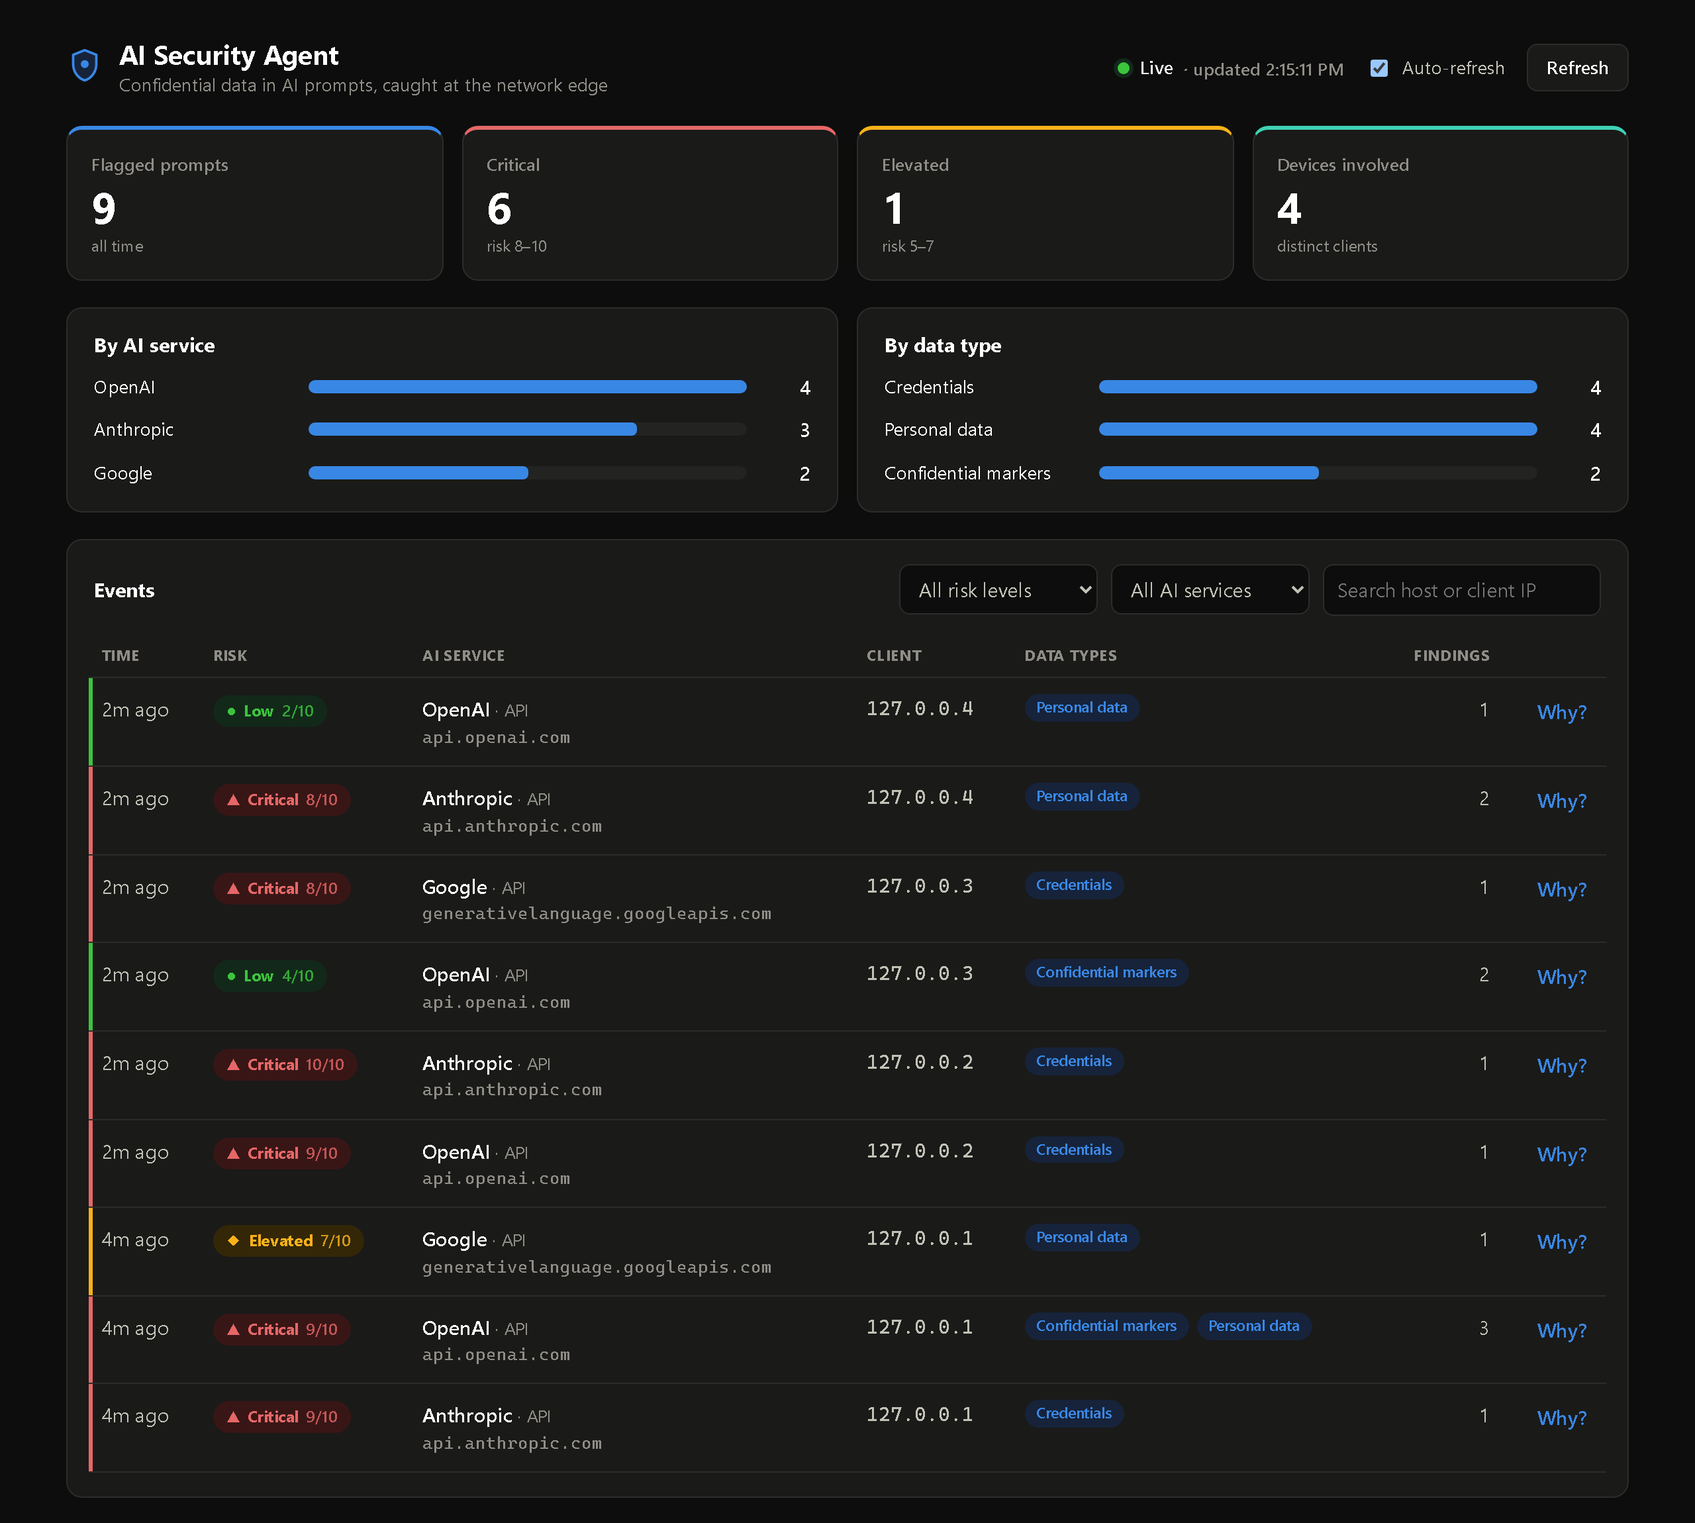
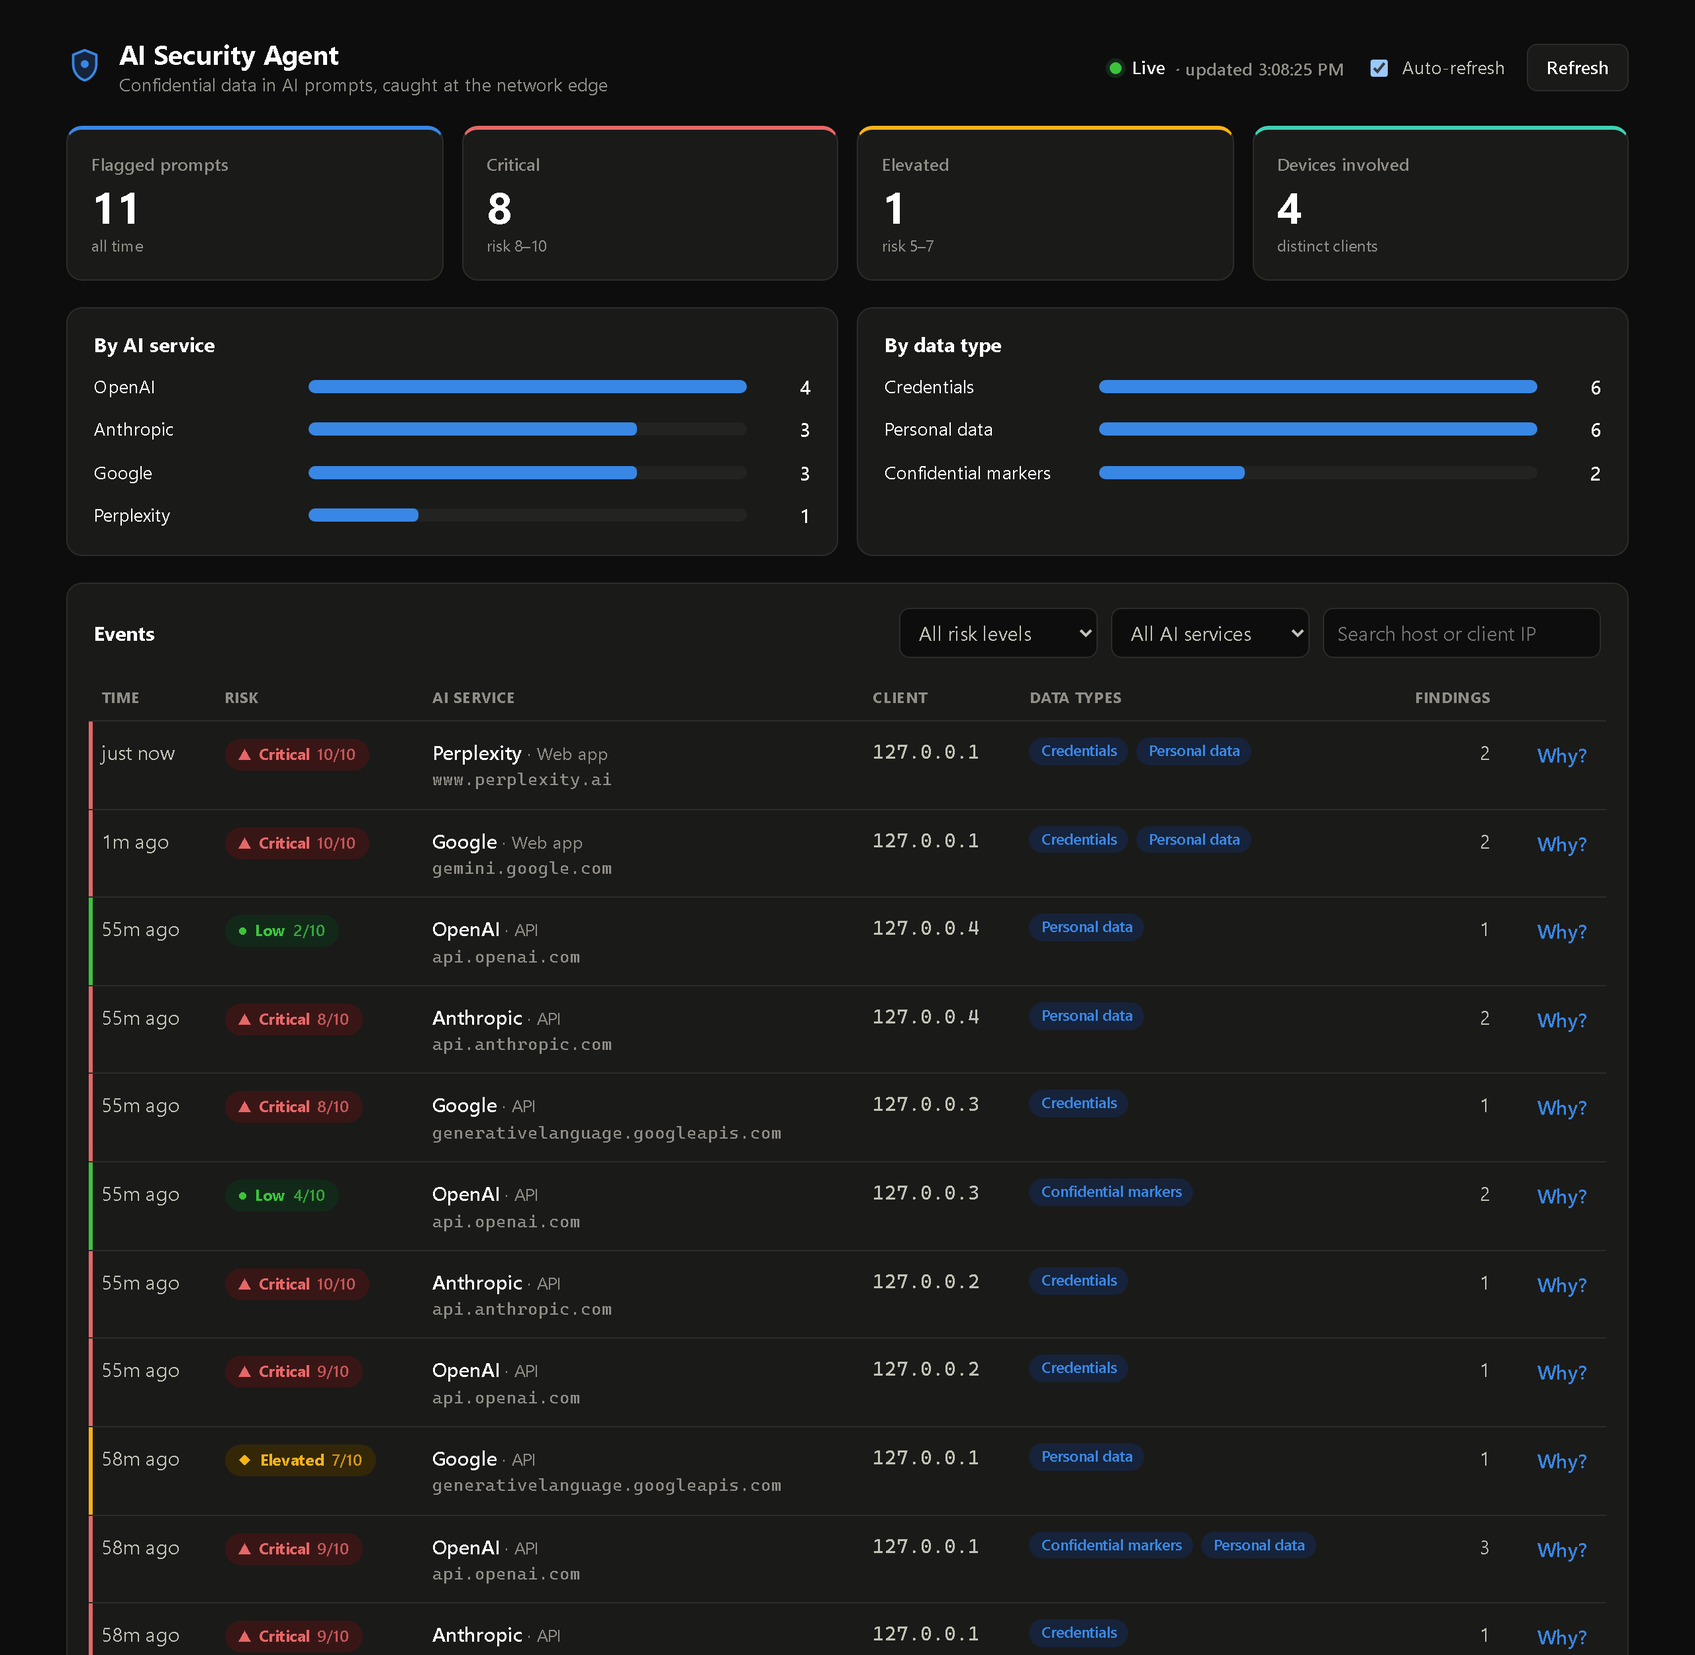
AI Security Agent: browser web-UI findings, coverage table, refreshed dashboard shots
- New Coverage section (build.py + styles): states plainly which services are
  verified on live traffic, which parsers are unverified, and which are unsupported.
- Case study updated with the browser-test story (zero events at first, then
  endpoint-aware parsers for Gemini and Perplexity), 56 tests, new next steps.
- Dashboard screenshots retaken with browser (Web app) events included.

diff --git a/projects/ai-security-agent/index.html b/projects/ai-security-agent/index.html
@@ -38,7 +38,7 @@
       </section>
       <section>
         <h2>Screenshots</h2>
-        <div class="gallery"><figure class="shot wide"><img src="../../assets/projects/ai-security-agent/dashboard-light.png" alt="AI Security Agent admin dashboard in light mode: summary tiles, breakdown by AI service and data type, and a table of flagged prompts with risk badges." width="2560" height="2300" loading="lazy"><figcaption>The admin dashboard, fed by a real proxy run: nine flagged prompts from four client addresses, with the first event&#x27;s rationale expanded.</figcaption></figure><figure class="shot wide"><img src="../../assets/projects/ai-security-agent/dashboard-dark.png" alt="The same dashboard in dark mode." width="2560" height="2300" loading="lazy"><figcaption>Dark mode. Severity is shown by icon and label as well as color.</figcaption></figure><figure class="shot wide"><img src="../../assets/projects/ai-security-agent/dlp-engine-output.png" alt="Terminal output showing a prompt containing a fake AWS key and SSN, scored 10 out of 10, with each finding listed using a masked value." width="1960" height="762" loading="lazy"><figcaption>Real engine output for a fake prompt (an AWS documentation example key and a sample SSN). Every stored value is masked.</figcaption></figure><figure class="shot wide"><img src="../../assets/projects/ai-security-agent/architecture.svg" alt="Diagram: client devices send traffic to a TLS-inspecting proxy that matches AI domains, extracts prompts and runs DLP classification; redacted events go to a backend API and the admin dashboard." width="900" height="300" loading="lazy"><figcaption>Data flow from client to proxy to backend to dashboard.</figcaption></figure></div>
+        <div class="gallery"><figure class="shot wide"><img src="../../assets/projects/ai-security-agent/dashboard-light.png" alt="AI Security Agent admin dashboard in light mode: summary tiles, breakdown by AI service and data type, and a table of flagged prompts with risk badges." width="2560" height="2500" loading="lazy"><figcaption>The admin dashboard, fed by real proxy runs: flagged prompts from API calls and from browser sessions (rows marked Web app), with the first event&#x27;s rationale expanded.</figcaption></figure><figure class="shot wide"><img src="../../assets/projects/ai-security-agent/dashboard-dark.png" alt="The same dashboard in dark mode." width="2560" height="2500" loading="lazy"><figcaption>Dark mode. Severity is shown by icon and label as well as color.</figcaption></figure><figure class="shot wide"><img src="../../assets/projects/ai-security-agent/dlp-engine-output.png" alt="Terminal output showing a prompt containing a fake AWS key and SSN, scored 10 out of 10, with each finding listed using a masked value." width="1960" height="762" loading="lazy"><figcaption>Real engine output for a fake prompt (an AWS documentation example key and a sample SSN). Every stored value is masked.</figcaption></figure><figure class="shot wide"><img src="../../assets/projects/ai-security-agent/architecture.svg" alt="Diagram: client devices send traffic to a TLS-inspecting proxy that matches AI domains, extracts prompts and runs DLP classification; redacted events go to a backend API and the admin dashboard." width="900" height="300" loading="lazy"><figcaption>Data flow from client to proxy to backend to dashboard.</figcaption></figure></div>
       </section>
       <section>
         <h2>The problem</h2>
@@ -46,15 +46,23 @@
       </section>
       <section>
         <h2>How it works</h2>
-        <p>A mitmproxy add-on matches traffic against a registry of known AI services, then uses per-provider extractors to pull out only the text the user typed — not system prompts or earlier turns. Events are delivered on a worker thread, so a slow backend can never stall a user&#x27;s request.</p><p>A DLP engine scores that text on a 1 to 10 scale. It detects AWS keys, GitHub and Slack tokens, private key blocks, JWTs, SSNs, Luhn-validated card numbers and confidential-marker keywords.</p><p>The detector is redaction-first: it never stores or returns the raw match, so the monitoring tool cannot become a new store of secrets. The admin dashboard shows only the risk summary, data types and counts. The consent model is disclosure through acceptable-use policy with a silent runtime, and it is documented in the repo.</p>
+        <p>A mitmproxy add-on matches each request by host and path against a registry of known AI services, then uses a per-provider extractor to pull out only the text the user typed — not system prompts, earlier turns or analytics beacons. Events are delivered on a worker thread, so a slow backend can never stall a user&#x27;s request.</p><p>A DLP engine scores that text on a 1 to 10 scale. It detects AWS keys, GitHub and Slack tokens, private key blocks, JWTs, SSNs, Luhn-validated card numbers and confidential-marker keywords.</p><p>The detector is redaction-first: it never stores or returns the raw match, so the monitoring tool cannot become a new store of secrets. The admin dashboard shows only the risk summary, data types and counts. The consent model is disclosure through acceptable-use policy with a silent runtime, and it is documented in the repo.</p>
+      </section>
+      <section>
+        <h2>Coverage</h2>
+        <p>What has been tested against real traffic, and what hasn't.</p>
+        <div class="table-scroll"><table class="coverage">
+          <thead><tr><th scope="col">Service</th><th scope="col">Where</th><th scope="col">Status</th><th scope="col">Notes</th></tr></thead>
+          <tbody><tr><th scope="row">OpenAI</th><td>API</td><td><span class="cov cov--verified">Verified on live traffic</span></td><td>Chat Completions requests.</td></tr><tr><th scope="row">Anthropic</th><td>API</td><td><span class="cov cov--verified">Verified on live traffic</span></td><td>Messages API requests.</td></tr><tr><th scope="row">Google Gemini</th><td>API</td><td><span class="cov cov--verified">Verified on live traffic</span></td><td>generateContent requests.</td></tr><tr><th scope="row">Gemini</th><td>Web app</td><td><span class="cov cov--verified">Verified on live traffic</span></td><td>Caught in a real browser session. The prompt sits inside JSON nested in JSON in a form field; decoded step by step.</td></tr><tr><th scope="row">Perplexity</th><td>Web app</td><td><span class="cov cov--verified">Verified on live traffic</span></td><td>Caught in a real browser session. Analytics beacons that echo the prompt are deliberately ignored.</td></tr><tr><th scope="row">ChatGPT</th><td>Web app</td><td><span class="cov cov--unverified">Written, not yet verified</span></td><td>Cloudflare blocks automated capture. The parser follows the commonly reported format and fails safe.</td></tr><tr><th scope="row">Claude</th><td>Web app</td><td><span class="cov cov--unverified">Written, not yet verified</span></td><td>Needs a signed-in session to capture. Parser follows the commonly reported format.</td></tr><tr><th scope="row">Microsoft Copilot</th><td>Web app</td><td><span class="cov cov--unsupported">Not supported yet</span></td><td>Chats over a WebSocket, which needs a message-level hook.</td></tr><tr><th scope="row">Mistral, Grok</th><td>Web app</td><td><span class="cov cov--unverified">Written, not yet verified</span></td><td>Generic fallback parser only.</td></tr></tbody>
+        </table></div>
       </section>
       <section>
         <h2>Highlights</h2>
-        <ul class="bullets"><li>Validated end to end on live traffic: real requests to the OpenAI, Anthropic and Gemini APIs through a local test proxy produced redacted events and nothing else — the test CA was never installed system-wide.</li><li>Redaction by design: findings carry the rule, category and weight — never the secret itself.</li><li>Admin dashboard with summary tiles, breakdowns by AI service and data type, filters, per-event rationale and live refresh, in light and dark mode.</li><li>38 automated tests across the DLP engine, extractors, proxy add-on and the FastAPI backend.</li></ul>
+        <ul class="bullets"><li>Validated on live traffic, not just unit tests: real requests to the OpenAI, Anthropic and Gemini APIs, plus real browser sessions on Gemini and Perplexity, through a local test proxy. The test CA was never installed system-wide.</li><li>Found and fixed a real gap: the first browser test recorded zero events, because chat UIs use their own request formats — Gemini nests JSON inside JSON inside a form field. Endpoint-aware parsers now catch them.</li><li>Perplexity echoes each prompt into analytics beacons. The registry matches on path, so the beacons are ignored and a prompt is reported exactly once.</li><li>Redaction by design: findings carry the rule, category and weight — never the secret itself.</li><li>Admin dashboard with summary tiles, breakdowns by AI service and data type, filters, per-event rationale and live refresh, in light and dark mode.</li><li>56 automated tests across the DLP engine, extractors, proxy add-on and backend. A small capture tool records request structure — never prompt text — for building new parsers.</li></ul>
       </section>
       <section>
         <h2>What's next</h2>
-        <ul class="bullets"><li>Validate browser web-UI traffic (ChatGPT, Claude, Gemini) against the generic web-UI extractor.</li><li>Authentication, plus a per-device drill-down and trend charts in the dashboard.</li><li>Root CA and PAC/GPO deployment tooling, with certificate-pinning checks.</li><li>Multi-tenant separation and per-client keyword lists.</li></ul>
+        <ul class="bullets"><li>Capture ChatGPT and Claude web traffic from a signed-in session. ChatGPT blocks automated browsers, and claude.ai needs a login, so those parsers are written but unverified.</li><li>Inspect Microsoft Copilot, which chats over a WebSocket rather than plain requests.</li><li>Authentication, plus a per-device drill-down and trend charts in the dashboard.</li><li>Root CA and PAC/GPO deployment tooling, with certificate-pinning checks, then multi-tenant separation.</li></ul>
       </section>
     </article>
   </main>

diff --git a/styles.css b/styles.css
@@ -115,6 +115,20 @@ p { margin: 0 0 14px; }
 .shot img { width: 100%; height: auto; display: block; border: 1px solid var(--line); border-radius: 12px; background: var(--surface); }
 .shot figcaption { color: var(--muted); font-size: .9rem; margin-top: 10px; }
 
+.table-scroll { overflow-x: auto; position: relative; }
+.coverage { width: 100%; border-collapse: collapse; min-width: 640px; font-size: .93rem; }
+.coverage th, .coverage td { text-align: left; padding: 10px 12px; border-bottom: 1px solid var(--line); vertical-align: top; }
+.coverage thead th { font-size: .75rem; text-transform: uppercase; letter-spacing: .06em; color: var(--muted); }
+.coverage tbody th { color: var(--ink); font-weight: 600; white-space: nowrap; }
+.cov { display: inline-block; padding: 2px 10px; border-radius: 999px; font-size: .78rem; font-weight: 700; white-space: nowrap; }
+.cov--verified { background: #e1f4e1; color: #0a6b0a; }
+.cov--unverified { background: #fdf0d5; color: #8a5a00; }
+.cov--unsupported { background: var(--accent-soft); color: var(--muted); }
+@media (prefers-color-scheme: dark) {
+  .cov--verified { background: #12291a; color: #5fd35f; }
+  .cov--unverified { background: #332708; color: #fab219; }
+}
+
 /* Skills */
 .skills { display: grid; grid-template-columns: repeat(auto-fit, minmax(300px, 1fr)); gap: 14px 28px; margin: 0; }
 .skills dt { color: var(--ink); font-weight: 700; font-size: .95rem; }

diff --git a/projects/index.html b/projects/index.html
@@ -39,7 +39,7 @@
           <a class="more" href="../projects/lightweight-siem/index.html">Read the case study →</a>
         </article>
         <article class="card">
-          <a class="card-thumb" href="../projects/ai-security-agent/index.html" tabindex="-1" aria-hidden="true"><img src="../assets/projects/ai-security-agent/dashboard-light.png" alt="AI Security Agent admin dashboard in light mode: summary tiles, breakdown by AI service and data type, and a table of flagged prompts with risk badges." width="2560" height="2300" loading="lazy"></a>
+          <a class="card-thumb" href="../projects/ai-security-agent/index.html" tabindex="-1" aria-hidden="true"><img src="../assets/projects/ai-security-agent/dashboard-light.png" alt="AI Security Agent admin dashboard in light mode: summary tiles, breakdown by AI service and data type, and a table of flagged prompts with risk badges." width="2560" height="2500" loading="lazy"></a>
           <p class="status">Working prototype · 2026</p>
           <h3><a href="../projects/ai-security-agent/index.html">AI Security Agent</a></h3>
           <p>Network-level data-loss prevention for AI usage. A TLS-inspecting proxy spots prompts headed to ChatGPT, Claude, Gemini and other AI services, scans them for secrets, credentials and personal data, and reports redacted findings to a SIEM-style admin dashboard.</p>

diff --git a/index.html b/index.html
@@ -94,7 +94,7 @@
           <a class="more" href="projects/lightweight-siem/index.html">Read the case study →</a>
         </article>
         <article class="card">
-          <a class="card-thumb" href="projects/ai-security-agent/index.html" tabindex="-1" aria-hidden="true"><img src="assets/projects/ai-security-agent/dashboard-light.png" alt="AI Security Agent admin dashboard in light mode: summary tiles, breakdown by AI service and data type, and a table of flagged prompts with risk badges." width="2560" height="2300" loading="lazy"></a>
+          <a class="card-thumb" href="projects/ai-security-agent/index.html" tabindex="-1" aria-hidden="true"><img src="assets/projects/ai-security-agent/dashboard-light.png" alt="AI Security Agent admin dashboard in light mode: summary tiles, breakdown by AI service and data type, and a table of flagged prompts with risk badges." width="2560" height="2500" loading="lazy"></a>
           <p class="status">Working prototype · 2026</p>
           <h3><a href="projects/ai-security-agent/index.html">AI Security Agent</a></h3>
           <p>Network-level data-loss prevention for AI usage. A TLS-inspecting proxy spots prompts headed to ChatGPT, Claude, Gemini and other AI services, scans them for secrets, credentials and personal data, and reports redacted findings to a SIEM-style admin dashboard.</p>

diff --git a/build.py b/build.py
@@ -52,6 +52,23 @@ class Link:
     url: str
 
 
+COVERAGE_STATUS = {
+    "verified": "Verified on live traffic",
+    "unverified": "Written, not yet verified",
+    "unsupported": "Not supported yet",
+}
+
+
+@dataclass(frozen=True)
+class CoverageRow:
+    """One line of an honest 'what works' table (optional per project)."""
+
+    service: str
+    where: str
+    status: str  # key of COVERAGE_STATUS
+    note: str
+
+
 @dataclass(frozen=True)
 class Project:
     slug: str
@@ -68,6 +85,7 @@ class Project:
     next_steps: list[str]
     links: list[Link]
     screenshots: list[Screenshot]
+    coverage: list[CoverageRow]
 
 
 # ---------------------------------------------------------------- loading
@@ -99,6 +117,12 @@ def _load_link(slug: str, raw: dict) -> Link:
     return Link(raw["label"], raw["url"])
 
 
+def _load_coverage(slug: str, raw: dict) -> CoverageRow:
+    if raw["status"] not in COVERAGE_STATUS:
+        raise ValueError(f"[{slug}] coverage status must be one of {sorted(COVERAGE_STATUS)}: {raw['status']}")
+    return CoverageRow(raw["service"], raw["where"], raw["status"], raw["note"])
+
+
 def load_projects() -> list[Project]:
     """Load and validate every project JSON file, sorted by its `order`."""
     projects: list[Project] = []
@@ -123,6 +147,7 @@ def load_projects() -> list[Project]:
                 next_steps=list(raw["next"]),
                 links=[_load_link(slug, link) for link in raw["links"]],
                 screenshots=[_load_screenshot(slug, s) for s in raw["screenshots"]],
+                coverage=[_load_coverage(slug, c) for c in raw.get("coverage", [])],
             )
         )
     projects.sort(key=lambda p: (p.order, p.title))
@@ -219,6 +244,27 @@ def render_gallery(project: Project, prefix: str) -> str:
     return '<div class="gallery">' + "".join(figures) + "</div>"
 
 
+def render_coverage(project: Project) -> str:
+    """Optional 'Coverage' section: an honest table of what is and isn't verified."""
+    if not project.coverage:
+        return ""
+    rows = "".join(
+        f"<tr><th scope=\"row\">{esc(c.service)}</th><td>{esc(c.where)}</td>"
+        f"<td><span class=\"cov cov--{c.status}\">{esc(COVERAGE_STATUS[c.status])}</span></td>"
+        f"<td>{esc(c.note)}</td></tr>"
+        for c in project.coverage
+    )
+    return f"""      <section>
+        <h2>Coverage</h2>
+        <p>What has been tested against real traffic, and what hasn't.</p>
+        <div class="table-scroll"><table class="coverage">
+          <thead><tr><th scope="col">Service</th><th scope="col">Where</th><th scope="col">Status</th><th scope="col">Notes</th></tr></thead>
+          <tbody>{rows}</tbody>
+        </table></div>
+      </section>
+"""
+
+
 def render_project_page(project: Project) -> str:
     prefix = "../../"
     links = "".join(
@@ -253,7 +299,7 @@ def render_project_page(project: Project) -> str:
         <h2>How it works</h2>
         {approach}
       </section>
-      <section>
+{render_coverage(project)}      <section>
         <h2>Highlights</h2>
         <ul class="bullets">{highlights}</ul>
       </section>
